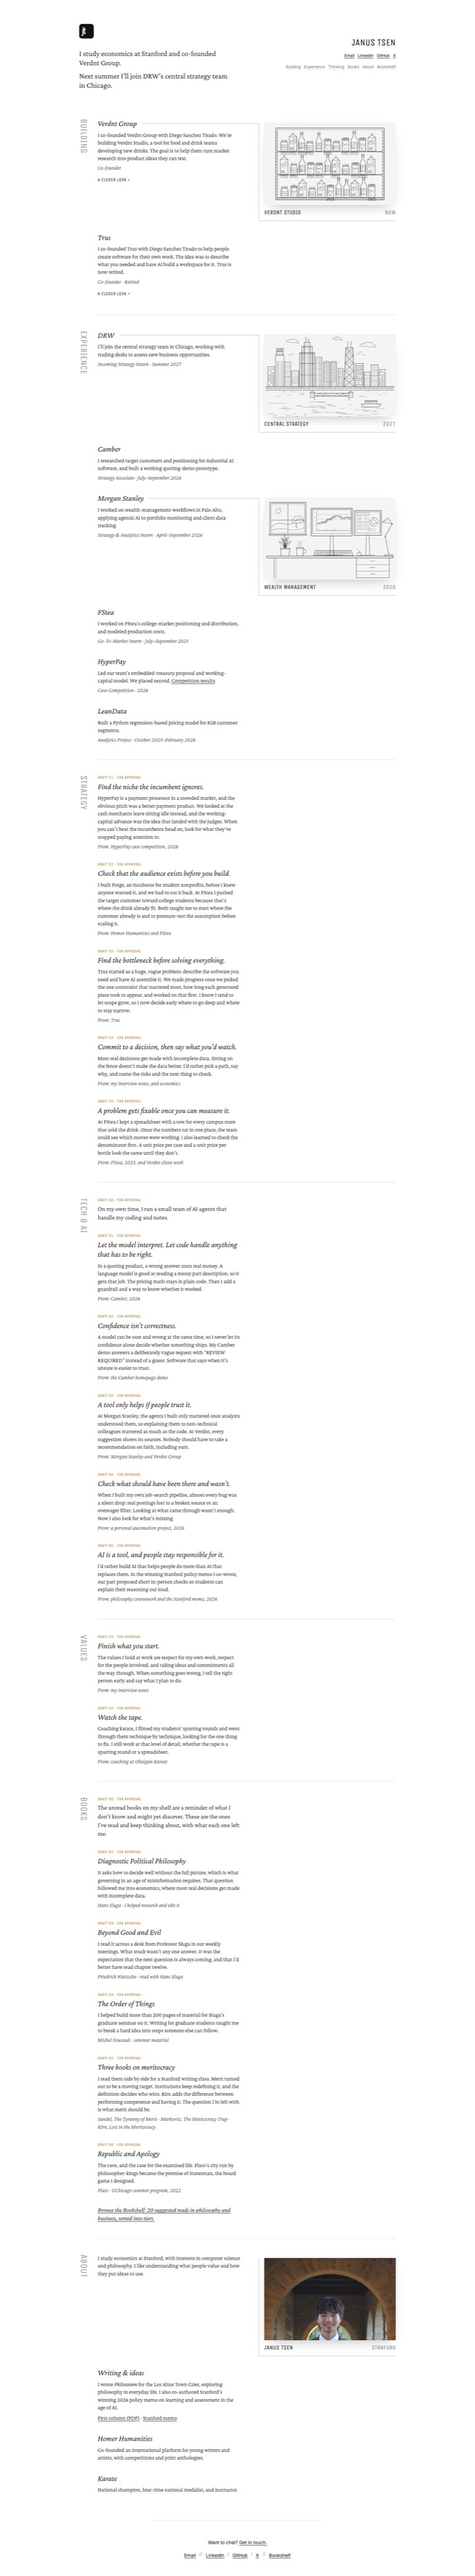
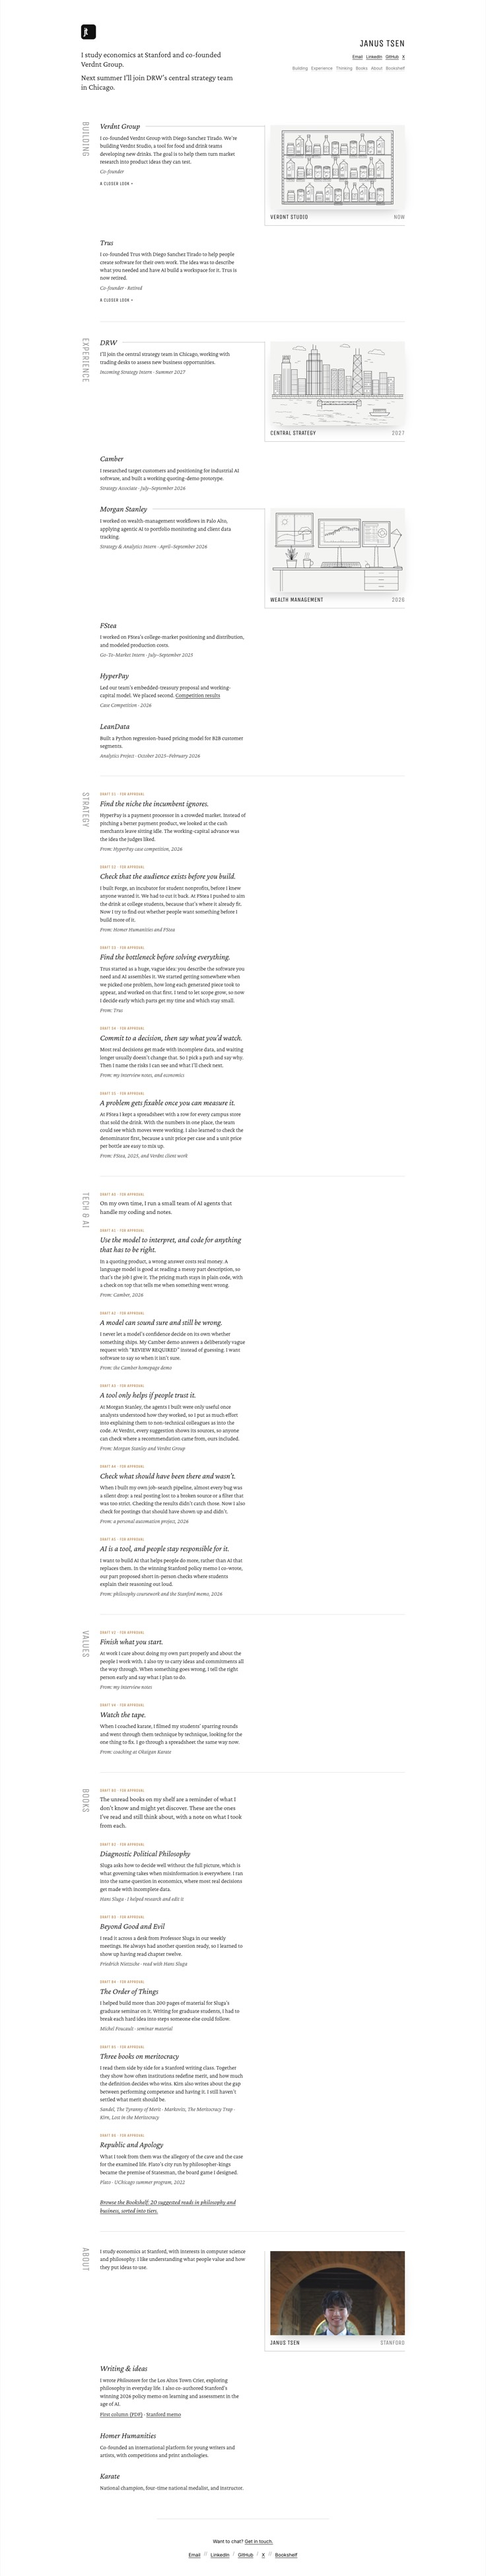
copy: remove AI writing tells from drafted insights

diff --git a/dist/index.html b/dist/index.html
@@ -95,27 +95,27 @@
   <div class="items">
     <article class="item reveal" data-draft="S1">
       <h3>Find the niche the incumbent ignores.</h3>
-      <p>HyperPay is a payment processor in a crowded market, and the obvious pitch was a better payment product. We looked at the cash merchants leave sitting idle instead, and the working-capital advance was the idea that landed with the judges. When you can’t beat the incumbents head on, look for what they’ve stopped paying attention to.</p>
+      <p>HyperPay is a payment processor in a crowded market. Instead of pitching a better payment product, we looked at the cash merchants leave sitting idle. The working-capital advance was the idea the judges liked.</p>
       <p class="aside">From: HyperPay case competition, 2026</p>
     </article>
     <article class="item reveal" data-draft="S2">
       <h3>Check that the audience exists before you build.</h3>
-      <p>I built Forge, an incubator for student nonprofits, before I knew anyone wanted it, and we had to cut it back. At FStea I pushed the target customer toward college students because that’s where the drink already fit. Both taught me to start where the customer already is and to pressure-test the assumption before scaling it.</p>
+      <p>I built Forge, an incubator for student nonprofits, before I knew anyone wanted it. We had to cut it back. At FStea I pushed to aim the drink at college students, because that’s where it already fit. Now I try to find out whether people want something before I build more of it.</p>
       <p class="aside">From: Homer Humanities and FStea</p>
     </article>
     <article class="item reveal" data-draft="S3">
       <h3>Find the bottleneck before solving everything.</h3>
-      <p>Trus started as a huge, vague problem: describe the software you need and have AI assemble it. We made progress once we picked the one constraint that mattered most, how long each generated piece took to appear, and worked on that first. I know I tend to let scope grow, so I now decide early where to go deep and where to stay narrow.</p>
+      <p>Trus started as a huge, vague idea: you describe the software you need and AI assembles it. We started getting somewhere when we picked one problem, how long each generated piece took to appear, and worked on that first. I tend to let scope grow, so now I decide early which parts get my time and which stay small.</p>
       <p class="aside">From: Trus</p>
     </article>
     <article class="item reveal" data-draft="S4">
       <h3>Commit to a decision, then say what you’d watch.</h3>
-      <p>Most real decisions get made with incomplete data. Sitting on the fence doesn’t make the data better. I’d rather pick a path, say why, and name the risks and the next thing to check.</p>
+      <p>Most real decisions get made with incomplete data, and waiting longer usually doesn’t change that. So I pick a path and say why. Then I name the risks I can see and what I’ll check next.</p>
       <p class="aside">From: my interview notes, and economics</p>
     </article>
     <article class="item reveal" data-draft="S5">
       <h3>A problem gets fixable once you can measure it.</h3>
-      <p>At FStea I kept a spreadsheet with a row for every campus store that sold the drink. Once the numbers sat in one place, the team could see which moves were working. I also learned to check the denominator first. A unit price per case and a unit price per bottle look the same until they don’t.</p>
+      <p>At FStea I kept a spreadsheet with a row for every campus store that sold the drink. With the numbers in one place, the team could see which moves were working. I also learned to check the denominator first, because a unit price per case and a unit price per bottle are easy to mix up.</p>
       <p class="aside">From: FStea, 2025, and Verdnt client work</p>
     </article>
   </div>
@@ -126,28 +126,28 @@
   <div class="items">
     <p class="lede reveal" data-draft="A0">On my own time, I run a small team of AI agents that handle my coding and notes.</p>
     <article class="item reveal" data-draft="A1">
-      <h3>Let the model interpret. Let code handle anything that has to be right.</h3>
-      <p>In a quoting product, a wrong answer costs real money. A language model is good at reading a messy part description, so it gets that job. The pricing math stays in plain code. Then I add a guardrail and a way to know whether it worked.</p>
+      <h3>Use the model to interpret, and code for anything that has to be right.</h3>
+      <p>In a quoting product, a wrong answer costs real money. A language model is good at reading a messy part description, so that’s the job I give it. The pricing math stays in plain code, with a check on top that tells me when something went wrong.</p>
       <p class="aside">From: Camber, 2026</p>
     </article>
     <article class="item reveal" data-draft="A2">
-      <h3>Confidence isn’t correctness.</h3>
-      <p>A model can be sure and wrong at the same time, so I never let its confidence alone decide whether something ships. My Camber demo answers a deliberately vague request with “REVIEW REQUIRED” instead of a guess. Software that says when it’s unsure is easier to trust.</p>
+      <h3>A model can sound sure and still be wrong.</h3>
+      <p>I never let a model’s confidence decide on its own whether something ships. My Camber demo answers a deliberately vague request with “REVIEW REQUIRED” instead of guessing. I want software to say so when it isn’t sure.</p>
       <p class="aside">From: the Camber homepage demo</p>
     </article>
     <article class="item reveal" data-draft="A3">
       <h3>A tool only helps if people trust it.</h3>
-      <p>At Morgan Stanley, the agents I built only mattered once analysts understood them, so explaining them to non-technical colleagues mattered as much as the code. At Verdnt, every suggestion shows its sources. Nobody should have to take a recommendation on faith, including ours.</p>
+      <p>At Morgan Stanley, the agents I built were only useful once analysts understood how they worked, so I put as much effort into explaining them to non-technical colleagues as into the code. At Verdnt, every suggestion shows its sources, so anyone can check where a recommendation came from, ours included.</p>
       <p class="aside">From: Morgan Stanley and Verdnt Group</p>
     </article>
     <article class="item reveal" data-draft="A4">
       <h3>Check what should have been there and wasn’t.</h3>
-      <p>When I built my own job-search pipeline, almost every bug was a silent drop: real postings lost to a broken source or an overeager filter. Looking at what came through wasn’t enough. Now I also look for what’s missing.</p>
+      <p>When I built my own job-search pipeline, almost every bug was a silent drop: a real posting lost to a broken source or a filter that was too strict. Checking the results didn’t catch those. Now I also check for postings that should have shown up and didn’t.</p>
       <p class="aside">From: a personal automation project, 2026</p>
     </article>
     <article class="item reveal" data-draft="A5">
       <h3>AI is a tool, and people stay responsible for it.</h3>
-      <p>I’d rather build AI that helps people do more than AI that replaces them. In the winning Stanford policy memo I co-wrote, our part proposed short in-person checks so students can explain their reasoning out loud.</p>
+      <p>I want to build AI that helps people do more, rather than AI that replaces them. In the winning Stanford policy memo I co-wrote, our part proposed short in-person checks where students explain their reasoning out loud.</p>
       <p class="aside">From: philosophy coursework and the Stanford memo, 2026</p>
     </article>
   </div>
@@ -158,22 +158,22 @@
   <div class="items">
     <article class="item reveal" data-draft="V1" hidden>
       <h3>Consistent, unglamorous work compounds.</h3>
-      <p>Volunteering with the Ethical Culture Society, I wrote cards, made sandwiches and helped with donation drives. It taught me I do my best work as a reliable teammate, not only when I’m the one in charge.</p>
+      <p>Volunteering with the Ethical Culture Society, I wrote cards, made sandwiches and helped with donation drives. I found I do some of my best work as a reliable teammate, when someone else is in charge.</p>
       <p class="aside">From: volunteering in Silicon Valley</p>
     </article>
     <article class="item reveal" data-draft="V2">
       <h3>Finish what you start.</h3>
-      <p>The values I hold at work are respect for my own work, respect for the people involved, and taking ideas and commitments all the way through. When something goes wrong, I tell the right person early and say what I plan to do.</p>
+      <p>At work I care about doing my own part properly and about the people I work with. I also try to carry ideas and commitments all the way through. When something goes wrong, I tell the right person early and say what I plan to do.</p>
       <p class="aside">From: my interview notes</p>
     </article>
     <article class="item reveal" data-draft="V3" hidden>
       <h3>No fate, only action and reaction.</h3>
-      <p>That’s the rule in Statesman, the board game I designed, and roughly how I think about life too. In my philosophy essays I keep landing in the same place: a choice can be voluntary without being free of past experience. Schopenhauer said it best: “Man can do what he wills but he cannot will what he wills.”</p>
+      <p>That’s the rule in Statesman, the board game I designed. It’s also close to how I think about my own choices. My philosophy essays keep coming back to the idea that a choice can be voluntary and still shaped by past experience. Schopenhauer put it this way: “Man can do what he wills but he cannot will what he wills.”</p>
       <p class="aside">From: Statesman and my essays on free will</p>
     </article>
     <article class="item reveal" data-draft="V4">
       <h3>Watch the tape.</h3>
-      <p>Coaching karate, I filmed my students’ sparring rounds and went through them technique by technique, looking for the one thing to fix. I still work at that level of detail, whether the tape is a sparring round or a spreadsheet.</p>
+      <p>When I coached karate, I filmed my students’ sparring rounds and went through them technique by technique, looking for the one thing to fix. I go through a spreadsheet the same way now.</p>
       <p class="aside">From: coaching at Okaigan Karate</p>
     </article>
     <article class="item reveal" data-draft="V5" hidden>
@@ -187,35 +187,35 @@
 <section class="group" id="books" aria-labelledby="books-label">
   <h2 class="label" id="books-label">Books</h2>
   <div class="items">
-    <p class="lede reveal" data-draft="B0">The unread books on my shelf are a reminder of what I don’t know and might yet discover. These are the ones I’ve read and keep thinking about, with what each one left me.</p>
+    <p class="lede reveal" data-draft="B0">The unread books on my shelf are a reminder of what I don’t know and might yet discover. These are the ones I’ve read and still think about, with a note on what I took from each.</p>
     <article class="item reveal" data-draft="B1" hidden>
       <h3><cite>My Brilliant Friend</cite></h3>
-      <p>A friendship is a choice two people make again and again, with no legal or family tie holding it in place. Ferrante makes the things left unsaid between Elena and Lila as loud as the things they say.</p>
+      <p>No legal or family tie holds Elena and Lila together. They keep choosing the friendship, over and over. Ferrante makes what they leave unsaid as loud as what they say.</p>
       <p class="aside">Elena Ferrante · my favorite novel</p>
     </article>
     <article class="item reveal" data-draft="B2">
       <h3><cite>Diagnostic Political Philosophy</cite></h3>
-      <p>It asks how to decide well without the full picture, which is what governing in an age of misinformation requires. That question followed me into economics, where most real decisions get made with incomplete data.</p>
+      <p>Sluga asks how to decide well without the full picture, which is what governing takes when misinformation is everywhere. I ran into the same question in economics, where most real decisions get made with incomplete data.</p>
       <p class="aside">Hans Sluga · I helped research and edit it</p>
     </article>
     <article class="item reveal" data-draft="B3">
       <h3><cite>Beyond Good and Evil</cite></h3>
-      <p>I read it across a desk from Professor Sluga in our weekly meetings. What stuck wasn’t any one answer. It was the expectation that the next question is always coming, and that I’d better have read chapter twelve.</p>
+      <p>I read it across a desk from Professor Sluga in our weekly meetings. He always had another question ready, so I learned to show up having read chapter twelve.</p>
       <p class="aside">Friedrich Nietzsche · read with Hans Sluga</p>
     </article>
     <article class="item reveal" data-draft="B4">
       <h3><cite>The Order of Things</cite></h3>
-      <p>I helped build more than 200 pages of material for Sluga’s graduate seminar on it. Writing for graduate students taught me to break a hard idea into steps someone else can follow.</p>
+      <p>I helped build more than 200 pages of material for Sluga’s graduate seminar on it. Writing for graduate students, I had to break each hard idea into steps someone else could follow.</p>
       <p class="aside">Michel Foucault · seminar material</p>
     </article>
     <article class="item reveal" data-draft="B5">
       <h3>Three books on meritocracy</h3>
-      <p>I read them side by side for a Stanford writing class. Merit turned out to be a moving target. Institutions keep redefining it, and the definition decides who wins. Kirn adds the difference between performing competence and having it. The question I’m left with is what merit should be.</p>
+      <p>I read them side by side for a Stanford writing class. Together they show how often institutions redefine merit, and how much the definition decides who wins. Kirn also writes about the gap between performing competence and having it. I still haven’t settled what merit should be.</p>
       <p class="aside">Sandel, <cite>The Tyranny of Merit</cite> · Markovits, <cite>The Meritocracy Trap</cite> · Kirn, <cite>Lost in the Meritocracy</cite></p>
     </article>
     <article class="item reveal" data-draft="B6">
       <h3><cite>Republic</cite> and <cite>Apology</cite></h3>
-      <p>The cave, and the case for the examined life. Plato’s city run by philosopher-kings became the premise of Statesman, the board game I designed.</p>
+      <p>What I took from them was the allegory of the cave and the case for the examined life. Plato’s city run by philosopher-kings became the premise of Statesman, the board game I designed.</p>
       <p class="aside">Plato · UChicago summer program, 2022</p>
     </article>
     <p class="more reveal"><a href="/bookshelf/">Browse the Bookshelf: 20 suggested reads in philosophy and business, sorted into tiers.</a></p>
